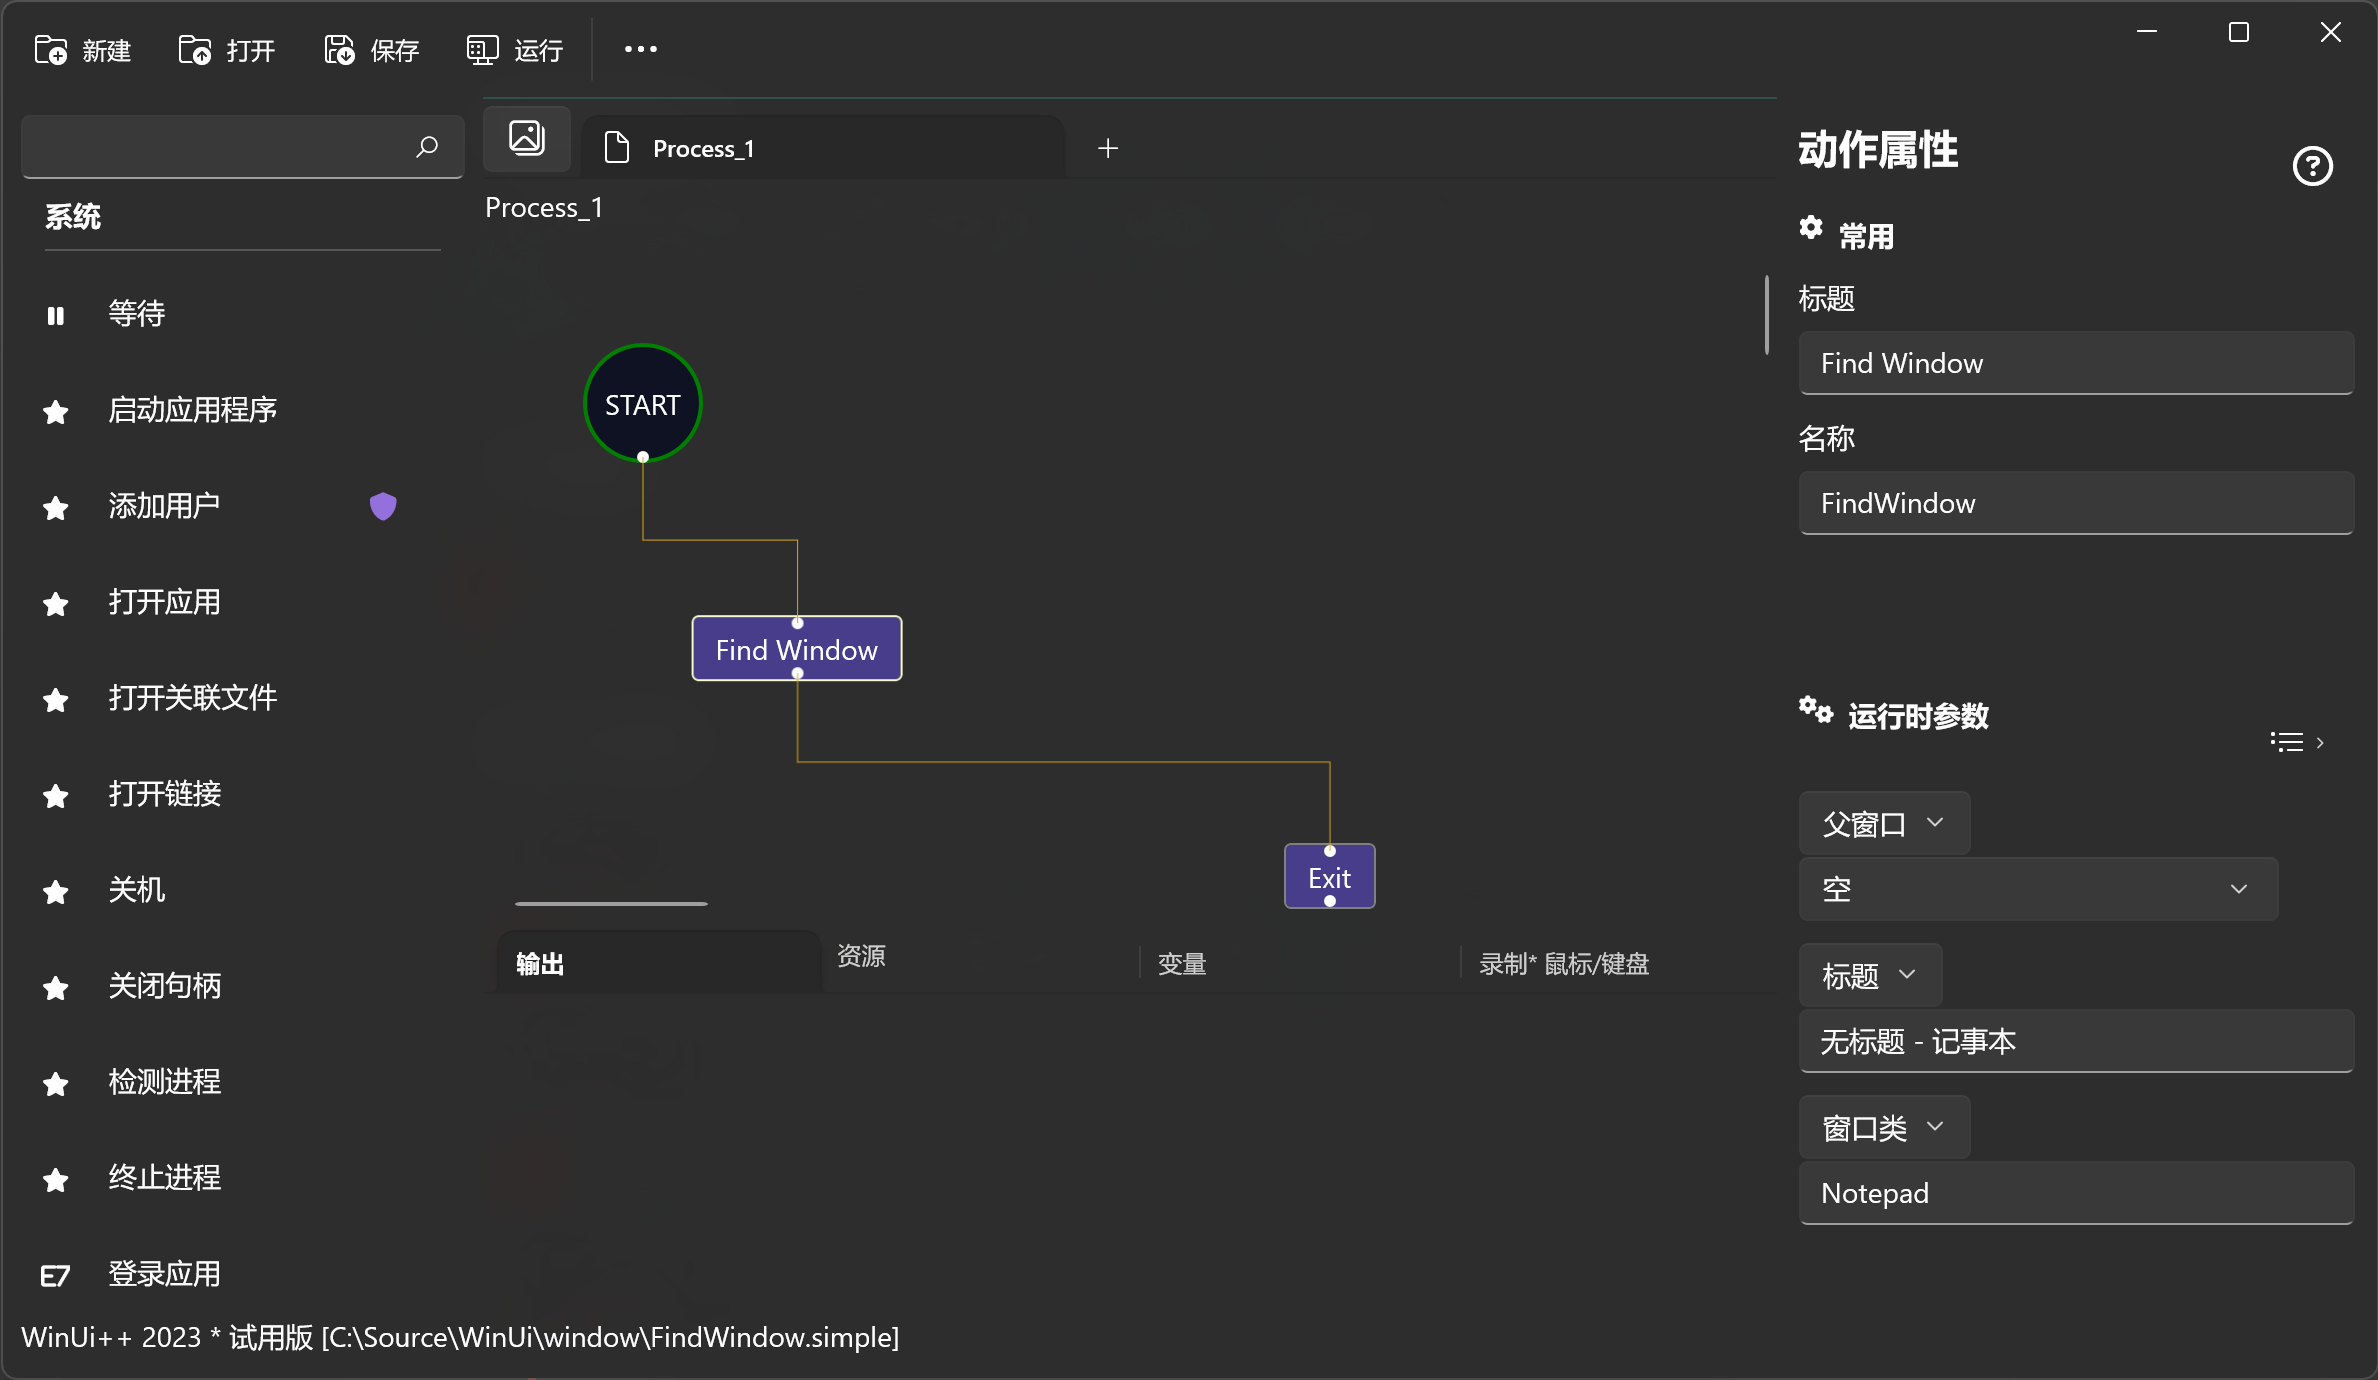
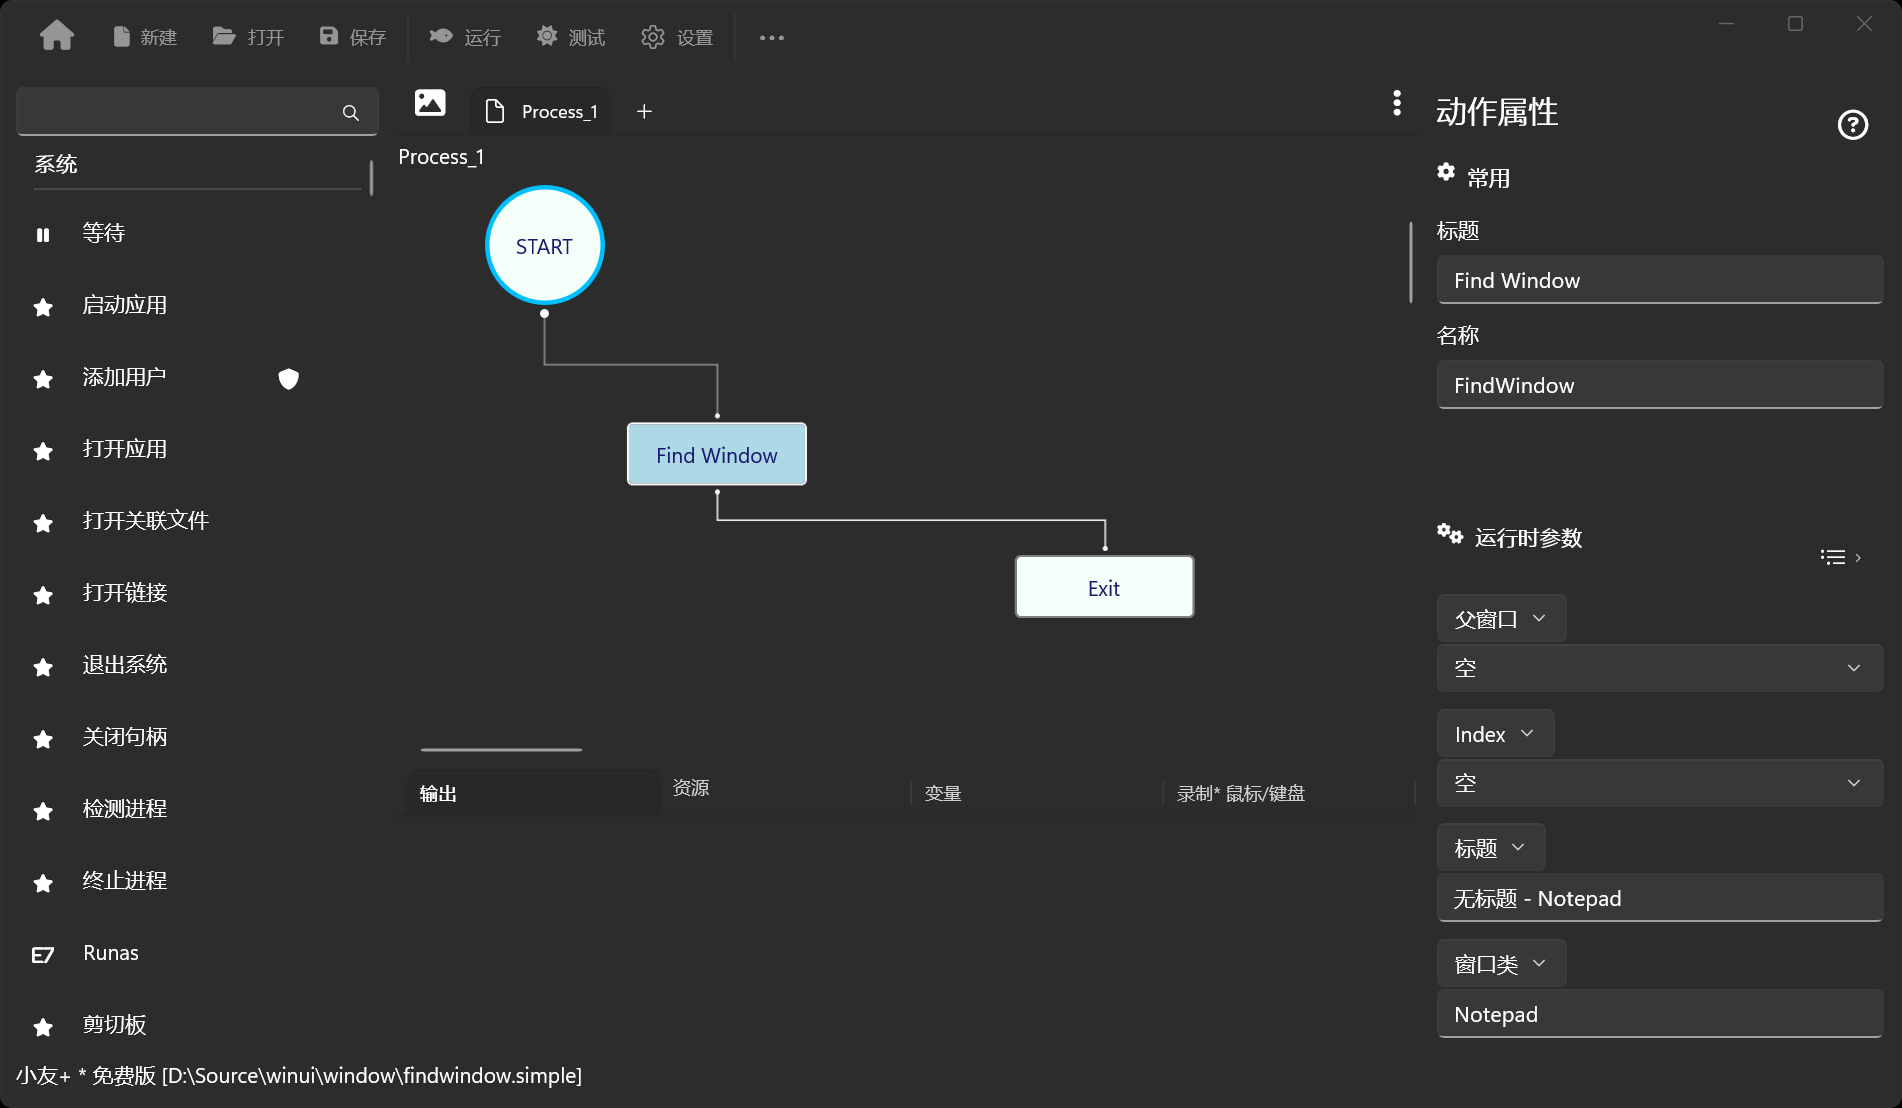
update

diff --git a/docx/CHANGELOG.md b/docx/CHANGELOG.md
@@ -1,4 +1,21 @@
-# [0.47.2](https://github.com/shelllet/winui/compare/main...dev) (2025-10-13)
+# [0.48](https://github.com/shelllet/winui/compare/main...dev) (2025-xx-xx)
+
+### Changed：
+1. [查找窗口](./actions/window/FindWindow.md) 支持从多个相同标题或类名的窗口中选择需要处理的窗口。
+2. [窗口截图](./actions/media/CaptureWindow.md), 添加参数支持仅截图窗口。
+2. 修复搜索动作时，输入特殊字符崩溃问题。
+3. 支持插件功能
+4. 网络相关动作支持`QUIC`协议
+5. 添加[发送输入](./actions/network/SendInput.md)，和[接收输入](./actions/network/ReceiveInput.md) 两个动作，可以同步多台电脑鼠标键盘操作。
+
+### Note
+
+1. 使用管理员权限运行 *小友+*, 无法显示 *动作* 的拖动效果（已知问题）。
+2. 该版本由于内置了一些文字处理相关的模型，安装包大小已经超过 `300M`（未来版本中优化）。
+3. 下载（安装包）：https://winui.net/_media/simple/小友+0.48.0-setup.x64.exe
+
+
+## [0.47.2](https://github.com/shelllet/winui/compare/main...dev) (2025-10-13)
 
 ### Changed：
 1. 修复管理员权限运行时，文件保存打开窗口无法弹出问题。
@@ -15,7 +32,7 @@
 3. 下载（安装包）：https://winui.net/_media/simple/小友+0.47.2-setup.x64.exe
 
 
-# [0.47.1](https://github.com/shelllet/winui/compare/main...dev) (2025-10-09)
+## [0.47.1](https://github.com/shelllet/winui/compare/main...dev) (2025-10-09)
 
 ### Changed：
 1. 修复打开低版本创建的档案时，复制、粘贴动作出现的错误。
@@ -29,7 +46,7 @@
 3. 下载（安装包）：https://winui.net/_media/simple/小友+0.47.1-setup.x64.exe
 
 
-# [0.47.0](https://github.com/shelllet/winui/compare/main...dev) (2025-09-22)
+## [0.47.0](https://github.com/shelllet/winui/compare/main...dev) (2025-09-22)
 
 ### Changed：
 1. 优化文字识别动作，文字识别结果已经更改为从上至下的顺序。

diff --git a/docx/actions/network/SendInput.md b/docx/actions/network/SendInput.md
@@ -1,0 +1,31 @@
+# 发送输入 
+通过网络，发送鼠标键盘事件。
+
+![SendInput](./images/11.png ':size=90%')
+
+## 子流程
+> 不支持
+
+## 运行参数
+
+* 主机
+>  *IP* 必须为本机*IP*, 端口为有有效的端口，比如：4433，该参数是主机地址，如果是`UDP`协议，*IP*： `0.0.0.0` 可以向局域网广播，鼠标键盘事件。
+
+* 偏移坐标
+> 如果置为窗口，发送端会自动把全局坐标映射为窗口坐标。如果输入坐标， 发送端在发送坐标时加上该坐标的值。
+
+* 协议
+> 支持 `UDP` 和 `TCP` 协议，建议使用 `UDP` 协议，提高鼠标键盘数据的传输效率。注意：发送和接收端的协议必须相同。
+
+## 输出
+
+> 无
+
+### 其它
+
+示例： https://github.com/shelllet/WinUi/blob/main/network/send_receive_input.simple
+
+
+
+
+

diff --git a/docx/actions/network/ReceiveInput.md b/docx/actions/network/ReceiveInput.md
@@ -1,0 +1,33 @@
+# 接收输入 
+接收网络上的鼠标键盘事件。
+
+![NetworkReceive](./images/12.png ':size=90%')
+
+## 子流程
+> 不支持
+
+## 运行参数
+
+* 主机
+
+>    如果协议是 `TCP`, *IP* 必须为远程 *IP*, `UDP` 可以是远程 *IP*, 或者 `0.0.0.0` 接收广播数据, 端口必须为有效的端口，需要和发送端一致。
+
+* 偏移坐标
+> 如果置为窗口，接收端会自动把窗口坐标映射为全局坐标。如果输入坐标， 接收端接收坐标时加上该坐标的值。
+* 协议
+> 支持 `UDP` 和 `TCP` 协议，建议使用 `UDP` 协议，提高鼠标键盘的传输速度。注意：发送和接收端的协议必须相同。
+
+## 输出 
+
+> 无
+
+
+## 资源
+
+
+示例： https://github.com/shelllet/WinUi/blob/main/network/send_receive_input.simple
+
+
+
+
+

diff --git a/docx/actions/window/FindWindow.md b/docx/actions/window/FindWindow.md
@@ -13,6 +13,9 @@
 * 父窗口
 > 默认为空，如果不为空，查找相应的子窗口，不为空，则查找当前系统所有的顶层窗口。可借助 *Spy++* 来辅助操作。
 
+* 索引
+> 如果不为空，则对应查找到的多个相同标题或类名的窗口的索引。
+
 * 标题
 > 窗口标题，支持 [通配符匹配](./introduction/workflow/wildcard.md)。
 
@@ -31,8 +34,11 @@
 
 
 
-
-
 !> [Windows下的程序及热键监视神器——Spy++](https://zhuanlan.zhihu.com/p/355878952)
 
 !> 附件: [spy++](https://gitlab.com/junwu/winui/-/raw/main/tools/spyxx.zip)
+
+## Changed
+
+* 0.48
+> 增加 *索引* 参数。

diff --git a/docx/actions/media/CaptureWindow.md b/docx/actions/media/CaptureWindow.md
@@ -11,6 +11,9 @@
 * 窗口
 > 需要截图的窗口。如果为 *空* ，选择当前激活的前置窗口。
 
+* 索引
+> 如果不为空，则对应查找到的多个相同标题或类名的窗口的索引。
+
 * 坐标
 > 要选择的 *ROI* 区域左上角位置，默认值 `（0， 0）`。*ROI* 区域之外，图像将置为黑色，该参数不影响输出图像尺寸。
 * 尺寸
@@ -27,8 +30,6 @@
 ## 资源
 
 示例：https://github.com/shelllet/WinUi/blob/main/media/CaptureWindow.simple
-
-
 
 
 

diff --git a/docx/_sidebar.md b/docx/_sidebar.md
@@ -175,7 +175,8 @@
       - [数据接收](./actions/network/NetworkReceive.md)
       - [服务连接](./actions/network/NetworkConnect.md)
       - [域名查询](./actions/network/DomainQuery.md)
-
+      - [发送输入](./actions/network/SendInput.md)
+      - [接收输入](./actions/network/ReceiveInput.md)
     - 统计分析
       - [加载文档](./actions/pandas/LoadDocument.md)
       - [查询](./actions/pandas/DataFrameQuery.md)
